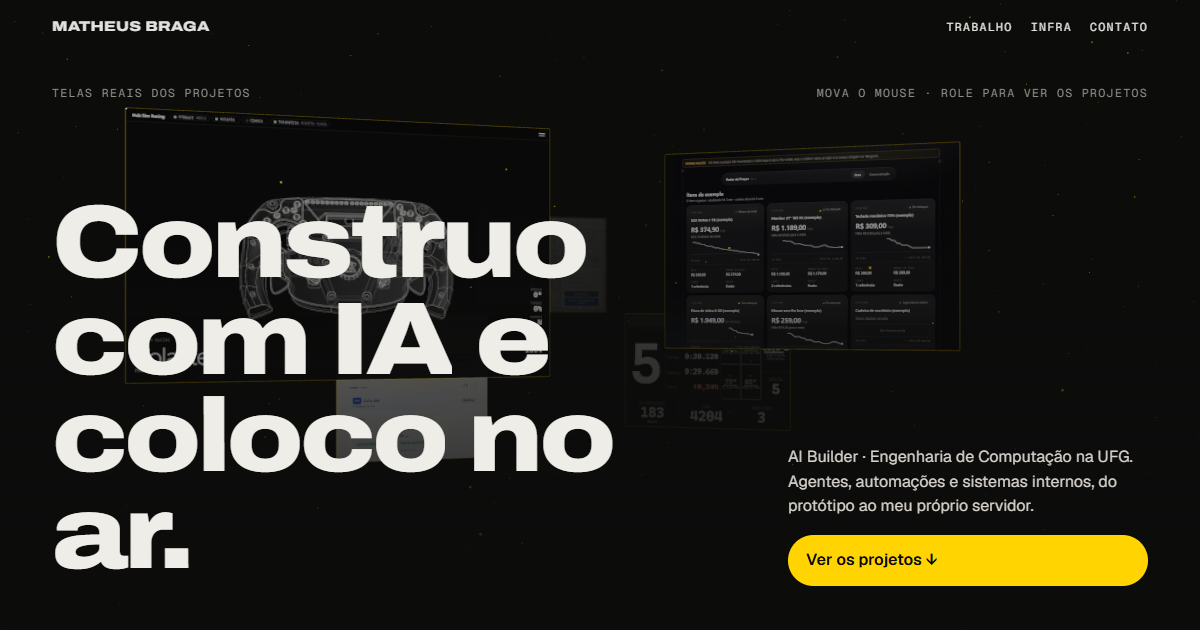
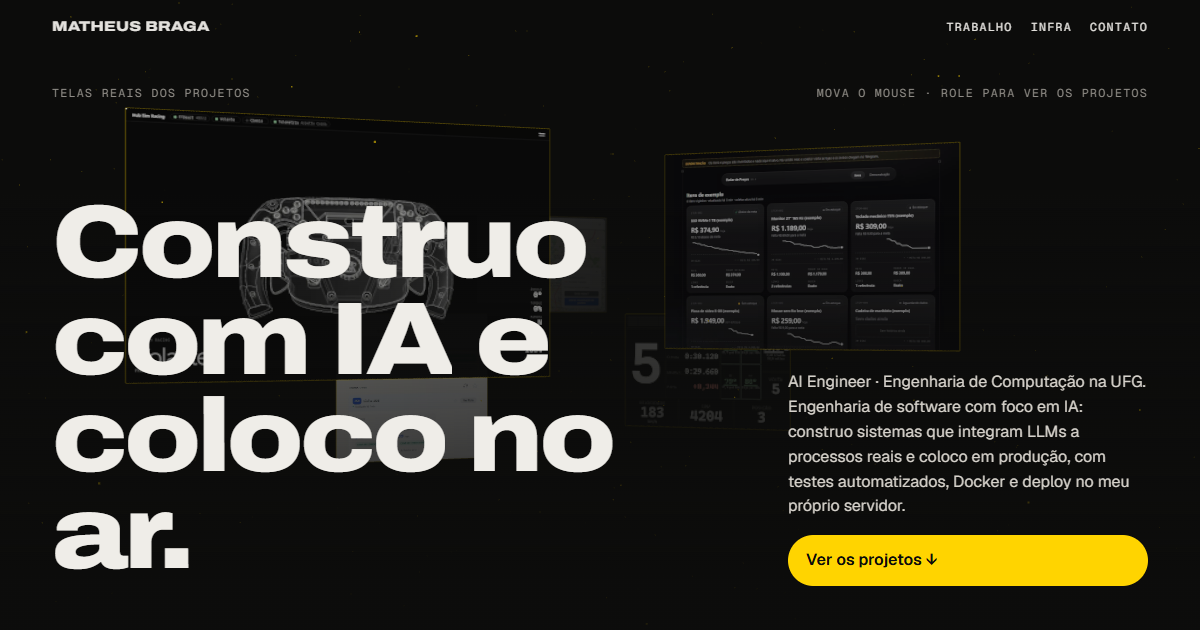
Versão IA alinhada à candidatura AI Engineer
- Título, meta description, og:title, og:description e abertura: AI Builder vira
  AI Engineer, com a frase de apresentação do currículo e do GitHub.
- Caso do estágio: linha "Sistema" (Python, FastAPI, PostgreSQL e Docker, com
  mais de 2.300 testes automatizados) e o mesmo número no resumo do celular.
- Imagem de compartilhamento da versão IA gerada de novo.
- Versão clientes idêntica: o gerador acompanha os trechos novos e remove a
  linha da stack.

Changed region(s): [[0.6475, 0.573, 0.9558, 0.8143]]

diff --git a/ia/index.html b/ia/index.html
@@ -3,13 +3,13 @@
 <head>
   <meta charset="utf-8">
   <meta name="viewport" content="width=device-width, initial-scale=1, viewport-fit=cover">
-  <title>Matheus Braga · AI Builder</title>
-  <meta name="description" content="AI Builder, Engenharia de Computação na UFG. Agentes de IA, automações e sistemas internos, do protótipo ao servidor.">
+  <title>Matheus Braga · AI Engineer</title>
+  <meta name="description" content="AI Engineer, Engenharia de Computação na UFG. Sistemas que integram LLMs a processos reais, em produção, com testes automatizados, Docker e deploy no próprio servidor.">
   <link rel="canonical" href="https://ia.matheusbragadev.com/">
   <meta property="og:type" content="website">
   <meta property="og:url" content="https://ia.matheusbragadev.com/">
-  <meta property="og:title" content="Matheus Braga · AI Builder">
-  <meta property="og:description" content="Agentes de IA, automações e sistemas internos em uso, do protótipo ao servidor.">
+  <meta property="og:title" content="Matheus Braga · AI Engineer">
+  <meta property="og:description" content="Sistemas que integram LLMs a processos reais, em produção, com testes automatizados e deploy no próprio servidor.">
   <meta property="og:image" content="https://ia.matheusbragadev.com/assets/img/og-ia.png">
   <meta property="og:image:width" content="1200">
   <meta property="og:image:height" content="630">
@@ -38,7 +38,7 @@
       <div class="hint g"><div class="w lbl"><span>telas reais dos projetos</span><span>mova o mouse · role para ver os projetos</span></div></div>
       <div class="copy g"><div class="w">
         <h1><span class="sr">Construo com IA e coloco no ar.</span><span aria-hidden="true" class="split">Construo com IA e coloco no ar.</span></h1>
-        <div class="side"><p>AI Builder · Engenharia de Computação na UFG. Agentes, automações e sistemas internos, do protótipo ao meu próprio servidor.</p><a class="cta" href="#viagem" data-hover>Ver os projetos ↓</a></div>
+        <div class="side"><p>AI Engineer · Engenharia de Computação na UFG. Engenharia de software com foco em IA: construo sistemas que integram LLMs a processos reais e coloco em produção, com testes automatizados, Docker e deploy no meu próprio servidor.</p><a class="cta" href="#viagem" data-hover>Ver os projetos ↓</a></div>
       </div></div>
     </section>
 
@@ -65,11 +65,12 @@
         <div class="copy2" data-depth=".12">
           <div class="lbl">Projeto 01 · Estágio · Grupo Odilon Santos</div>
           <h2 id="h-1">Bot do Lab 3D</h2>
-          <p class="short">Três agentes de IA no WhatsApp para as garagens de ônibus pedirem peças ao laboratório.</p>
+          <p class="short">Três agentes de IA no WhatsApp para as garagens de ônibus pedirem peças ao laboratório, num sistema com mais de 2.300 testes automatizados.</p>
           <dl class="pr">
             <div><dt>Problema</dt><dd>Para pedir uma peça ou relatar um defeito, o funcionário tinha que ir pessoalmente até alguém do laboratório.</dd></div>
             <div><dt>Solução</dt><dd>Agentes Triagem, Pedido e Ocorrência (n8n, OpenAI, Evolution API), memória no Postgres e passagem para um humano.</dd></div>
             <div><dt>Resultado</dt><dd>O pedido sai do celular, a qualquer hora, e fica registrado. Testado por agentes que simulam funcionários.</dd></div>
+            <div><dt>Sistema</dt><dd>Python, FastAPI, PostgreSQL e Docker, com mais de 2.300 testes automatizados.</dd></div>
           </dl>
           <div class="agents"><span class="agent" data-a="t">Triagem</span><span class="agent" data-a="p">Pedido</span><span class="agent" data-a="o">Ocorrência</span><span class="agent" data-a="h">Humano</span></div>
         </div>
